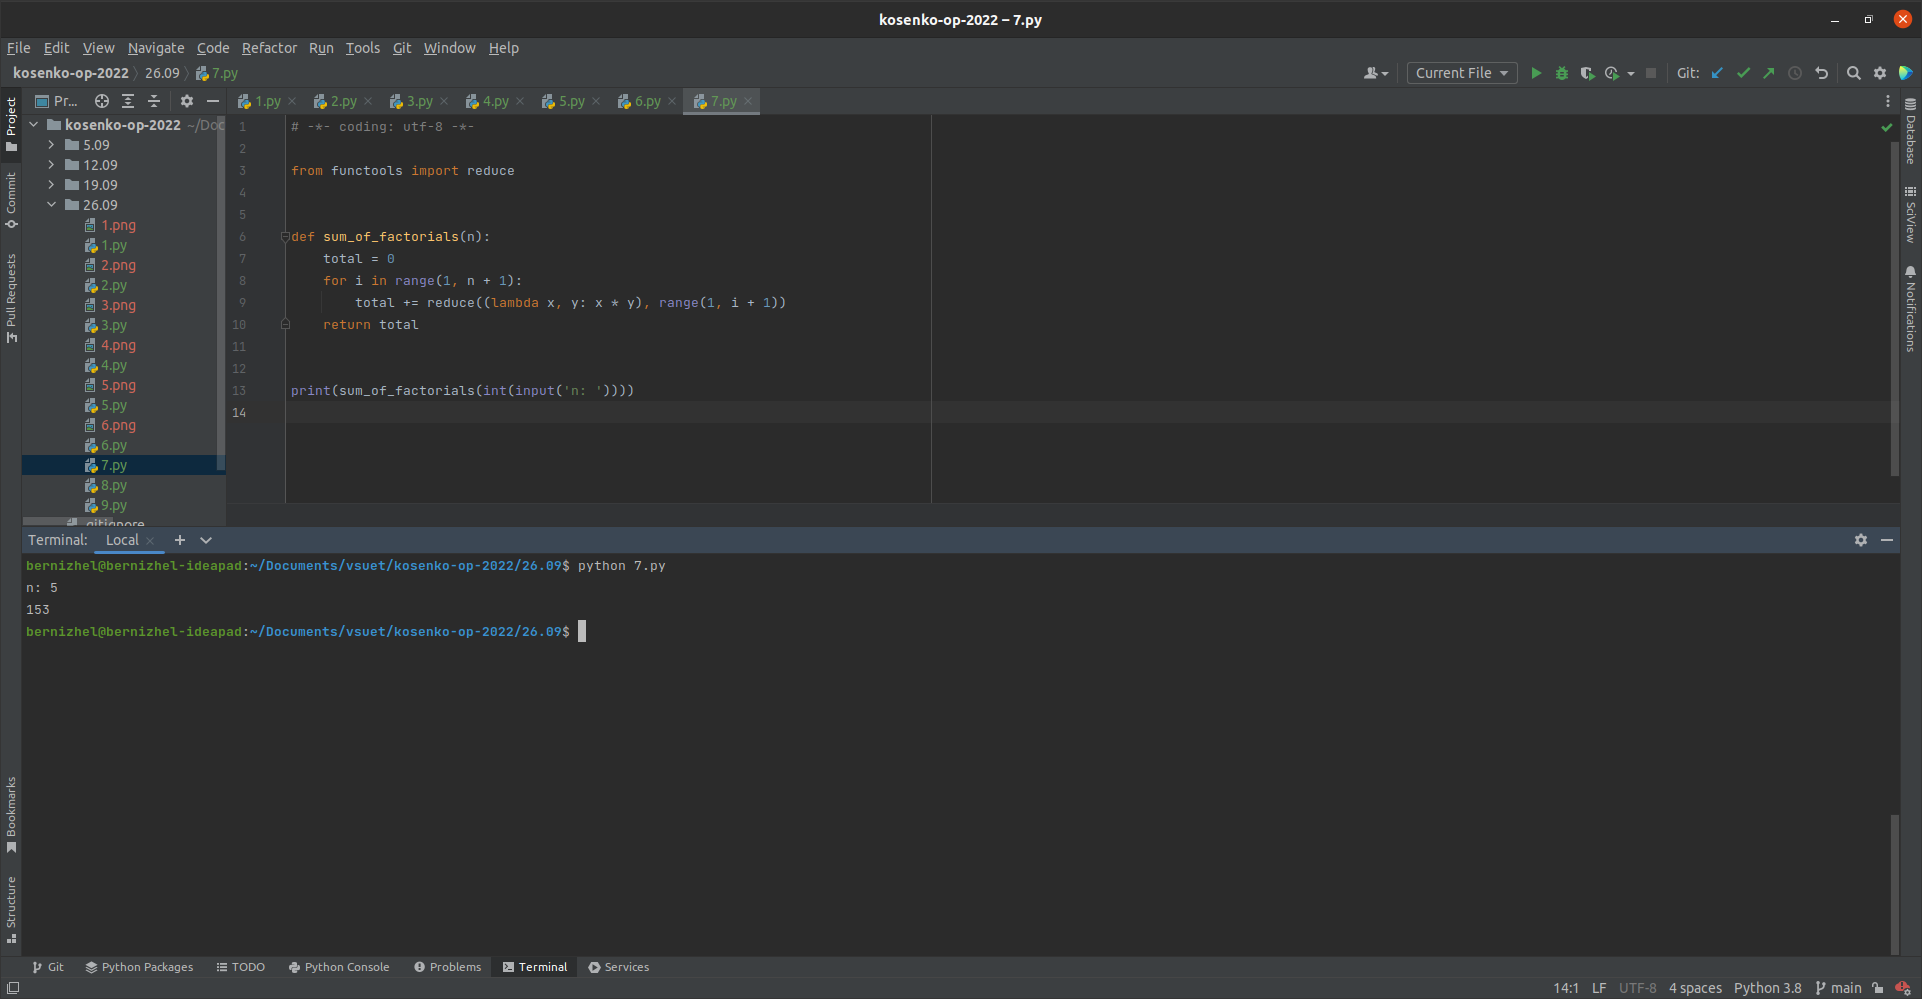
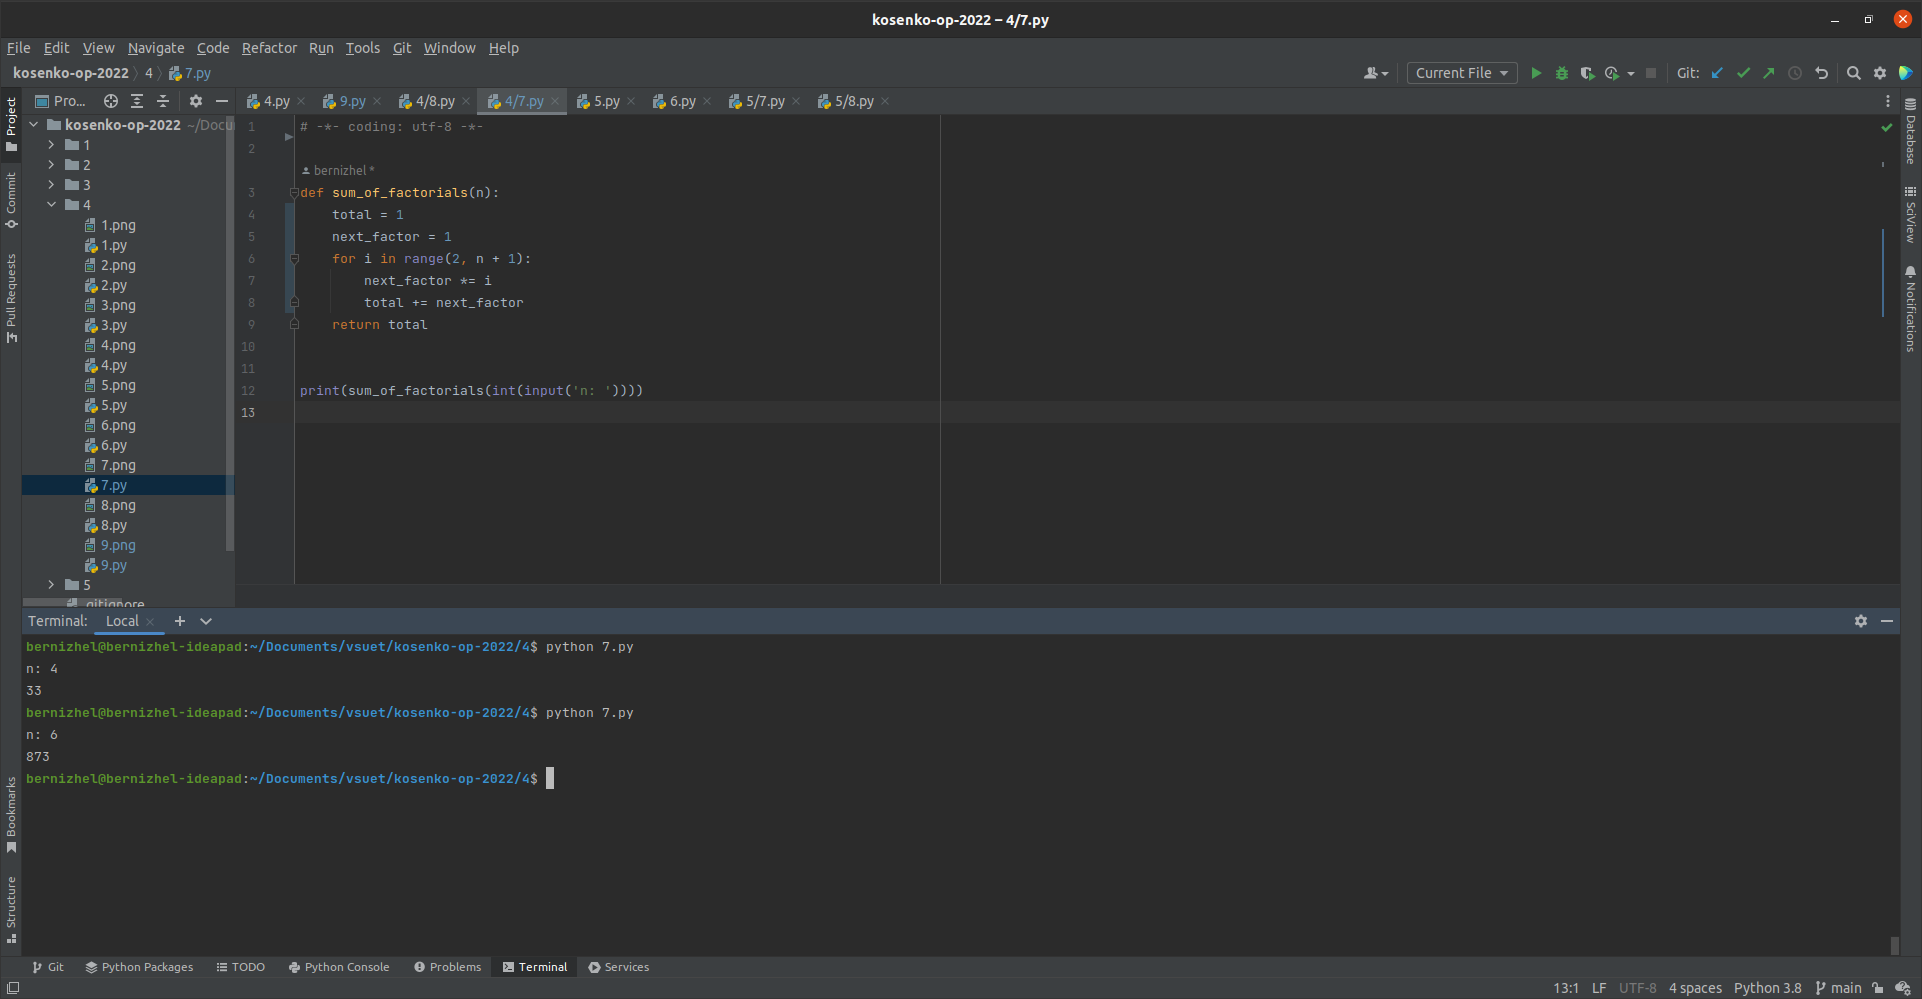
fix(4): redo 7 and 9 problems

diff --git a/4/9.py b/4/9.py
@@ -1,21 +1,11 @@
 # -*- coding: utf-8 -*-
 
-from functools import lru_cache
-
-
-@lru_cache(None)
-def fibonacci(n):
-    if n == 0:
-        return 0
-    if n < 3:
-        return 1
-    return fibonacci(n - 1) + fibonacci(n - 2)
-
-
 def fibonacci_sum(n):
     total = 0
+    prev_num = next_num = 1
     for i in range(1, n + 1):
-        total += fibonacci(i)
+        total += prev_num
+        prev_num, next_num = next_num, prev_num + next_num
     return total
 
 

diff --git a/4/7.py b/4/7.py
@@ -1,12 +1,11 @@
 # -*- coding: utf-8 -*-
 
-from functools import reduce
-
-
 def sum_of_factorials(n):
-    total = 0
-    for i in range(1, n + 1):
-        total += reduce((lambda x, y: x * y), range(1, i + 1))
+    total = 1
+    next_factor = 1
+    for i in range(2, n + 1):
+        next_factor *= i
+        total += next_factor
     return total
 
 
